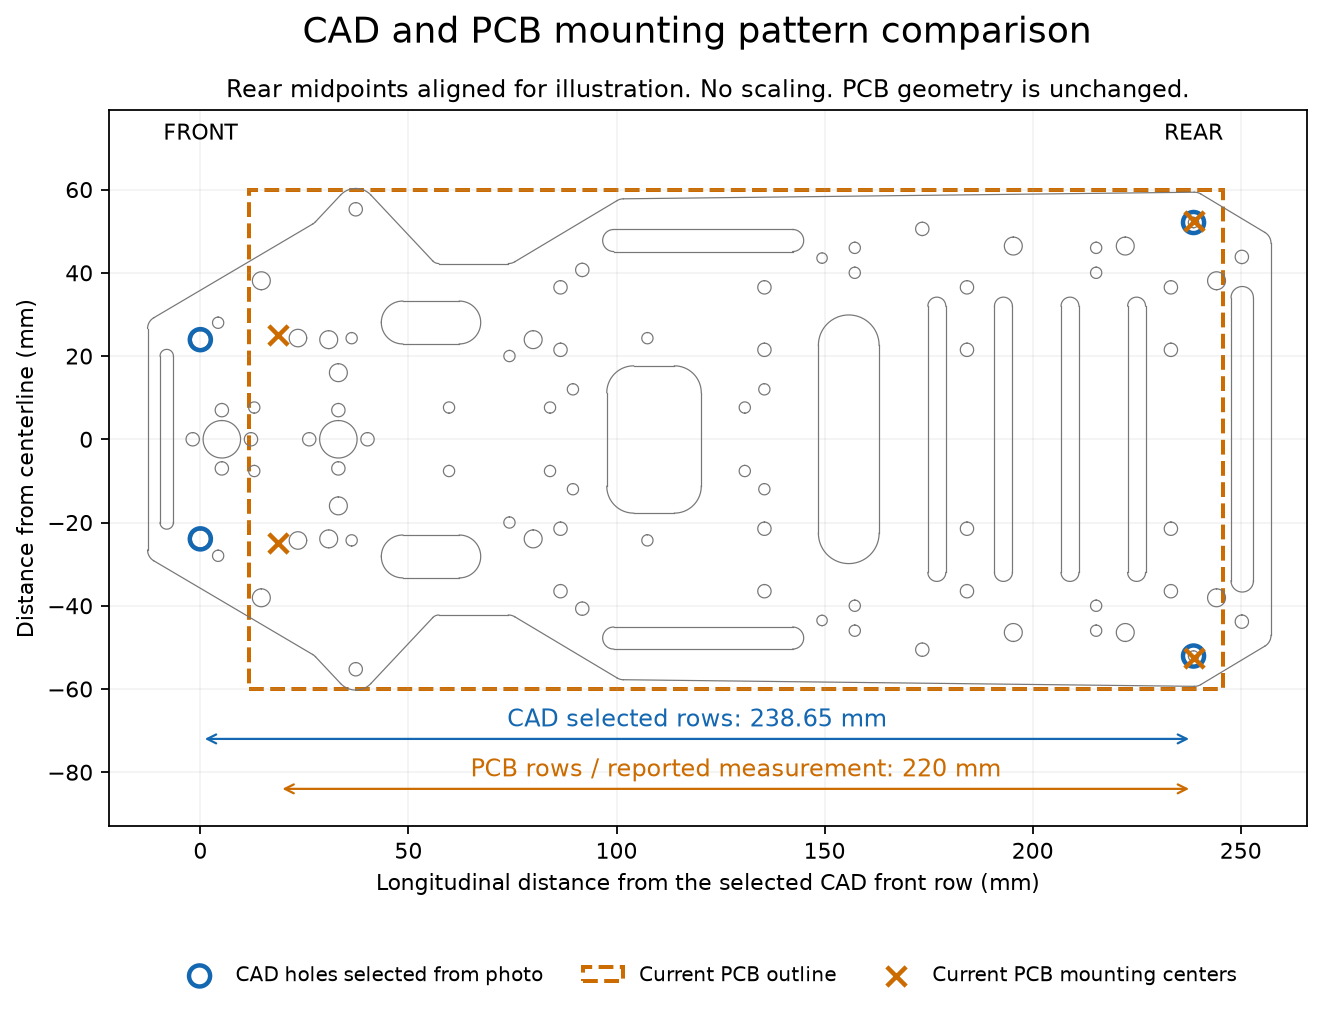
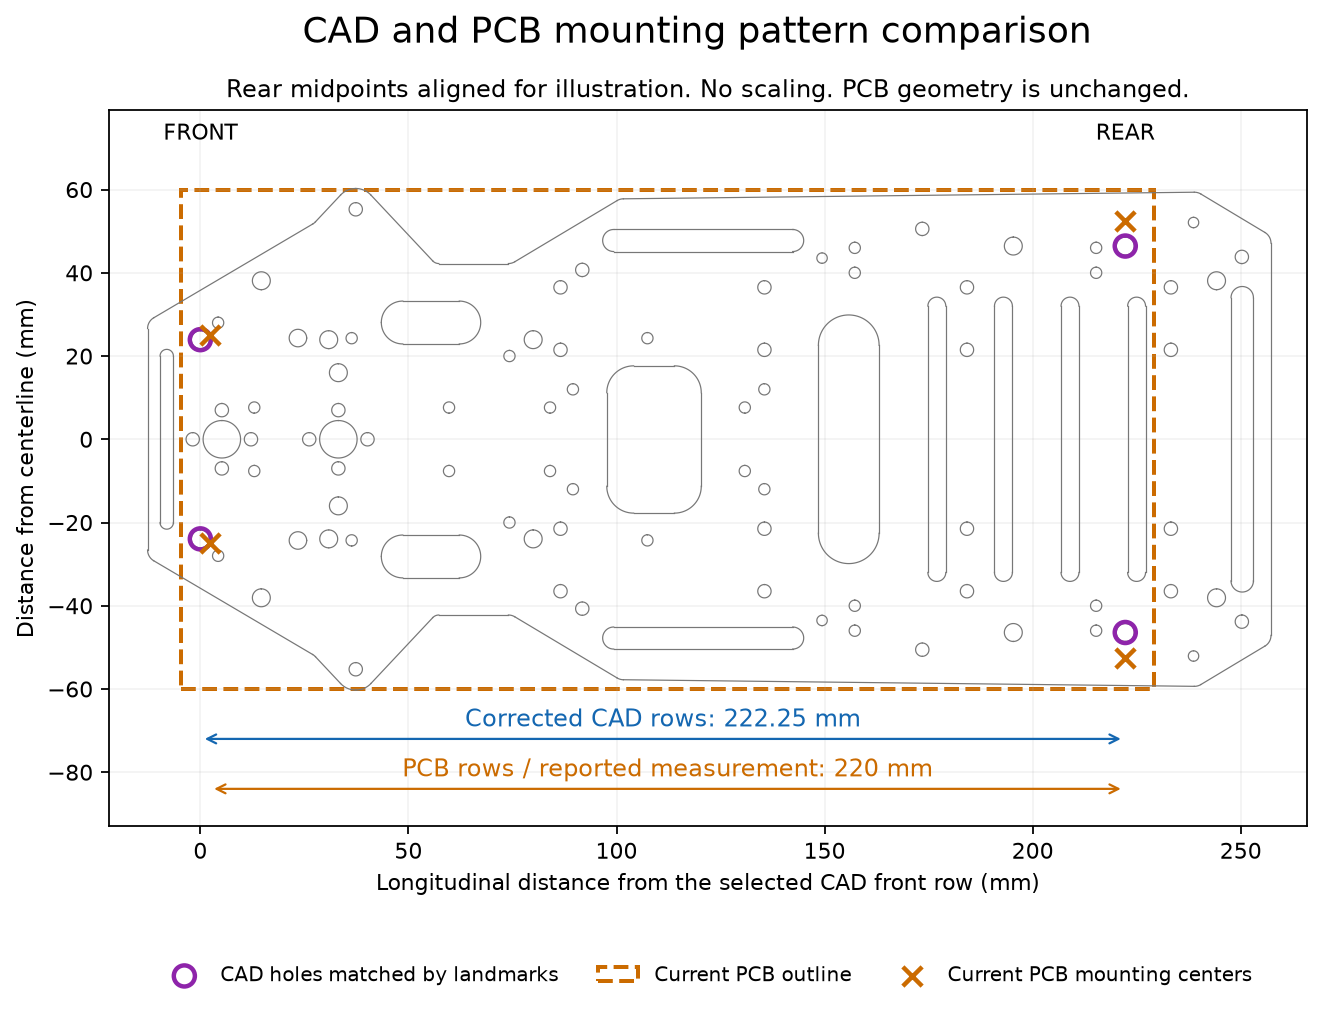
Correct chassis rear-hole correspondence and add labelled CAD details

diff --git a/lab4/Chassis-CAD-review.md b/lab4/Chassis-CAD-review.md
@@ -8,6 +8,12 @@ confirm the same pattern, so we cannot yet claim a matching CAD assembly.
 
 ## Source and correspondence
 
+**Correction after the purple-hole recheck:** the earlier rear selection was
+too far rearward. Its 238.650 mm row separation and 2.5 mm rear-hole diameter
+do not describe the purple-marked pair. We replaced those features with the
+larger pair beside the rearmost thin slot. The front selection is retained
+after checking the narrow end slot, large centre hole and nearby small holes.
+
 Canvas lists [Ackermann Chassis (Single Layer).3dm](https://canvas.cmu.edu/courses/56453/files/14985787)
 in the course Labs folder, created and last modified October 9, 2026. Its
 displayed 185.5 MB size agrees with the downloaded file's 185,526,936 bytes.
@@ -15,7 +21,8 @@ The file page provides no revision explanation. Despite its name, the model
 contains both chassis plates, spacers, wheels and steering parts. Its units
 are millimetres, with 0.001 mm model tolerance.
 
-We matched the narrow front pair and the wide rear pair by their locations
+We matched the front pair beside the narrow end slot and the rear pair beside
+the rearmost thin slot by their locations
 in the [marked team photo](measurements/chassis-mounting-2026-10-23.jpg).
 That correspondence is a visual interpretation, not confirmation that this
 CAD revision describes our actual car.
@@ -23,23 +30,28 @@ CAD revision describes our actual car.
 | Dimension | Team evidence / saved PCB | Visually corresponding CAD features |
 | --- | ---: | ---: |
 | Front pair, centre to centre | 50 mm | 47.870 mm |
-| Rear pair, centre to centre | 105 mm | 104.166 mm |
-| Front-to-rear row separation | 220 mm | 238.650 mm |
-| Chassis hole diameters | 4.5 mm, reported smooth holes | Front 4.3 mm; rear 2.5 mm |
+| Rear pair, centre to centre | 105 mm | 92.860 mm |
+| Front-to-rear row separation | 220 mm | 222.246 mm |
+| Chassis hole diameters | 4.5 mm, reported smooth holes | 4.3 mm at all four selected CAD holes |
 | Clear space between chassis plates | Approximately 51.75 mm reported | 50.000 mm |
 
-The 238.650 mm value is **a distance in the reference model**, not a new
-measurement of the team's chassis. The model's 2.5 mm rear holes would not
-accept our proposed M3 screw; this additional difference reinforces the need
-to reconcile the reference instead of automatically moving the PCB holes.
-We have not established whether the cause is a different chassis revision,
-incorrect feature correspondence, or a mismatch between the tested template
-and its recorded dimensions.
+The corrected longitudinal spacing is much closer to the recorded 220 mm,
+but the 12.140 mm difference in rear-pair width still prevents a matching
+four-hole CAD assembly. These values describe the model; they do not replace
+the team's physical measurements. We have not established whether the
+remaining difference comes from a different chassis revision, remaining
+feature correspondence ambiguity, or the tested template's recorded dimensions.
+
+![Labelled selected holes with front and rear details](Chassis-hole-correspondence.png)
+
+A/B identify the front pair; C/D identify the revised rear pair. Grey crosses
+mark the earlier, incorrect rear selection. This figure makes the visual
+correspondence reviewable without needing another set of physical measurements.
 
 ![CAD and current PCB support pattern](Chassis-CAD-comparison.png)
 
 The illustration aligns the rear-pair midpoints and applies no scale change.
-It is a reference comparison, not a fitted assembly. Blue circles identify
+It is a reference comparison, not a fitted assembly. Purple circles identify
 the selected CAD features; orange crosses show the current PCB hole centres.
 
 ## Checks and reproducibility
@@ -51,7 +63,7 @@ The selected hole centres in model coordinates are:
 | Pair | Left X / Y (mm) | Right X / Y (mm) | Boundary-edge indices |
 | --- | --- | --- | --- |
 | Front | −21.45269 / −125.71958 | 26.41721 / −125.71958 | 490; 493 |
-| Rear | −49.60074 / 112.93028 | 54.56527 / 112.93028 | 295 + 299; 301 + 305 |
+| Rear | −43.94773 / 96.52639 | 48.91225 / 96.52639 | 196; 199 |
 
 We extracted circular boundary arcs at the top surface using the model's
 0.001 mm tolerance, joining arcs with the same centre and radius. The check
@@ -83,15 +95,14 @@ The large course CAD file is not duplicated in this repository.
 
 ## Before release
 
-Resolve the model-to-car discrepancy before treating the course model as
-verification of the mounting pattern. The first step is a reference check
-with the TA, not another general measurement session:
+Review the labelled A/B/C/D correspondence before treating the course model
+as verification of the mounting pattern. If these are the intended matching
+features, the remaining focused reference question is:
 
-> Our 1:1 template fits all four chassis holes with 220 mm between the front
-> and rear rows. The matching-looking holes in the Canvas model are about
-> 238.65 mm apart, and their diameters also differ. Is the model for a different
-> chassis version, or are we identifying the wrong holes? Can we use the pattern
-> already checked on our actual car?
+> Our 1:1 template fits the car using 50/105 mm front/rear pair spacing and
+> 220 mm between rows. The labelled matching features in the Canvas model
+> give 47.87/92.86 mm and 222.25 mm. Does that model represent the same chassis
+> revision? Can we use the mounting pattern already checked on our actual car?
 
 Attach the comparison and the existing fit photo when asking. If the model
 is confirmed to represent a different car, retain the documented physical

diff --git a/lab4/Mechanical-evidence.md b/lab4/Mechanical-evidence.md
@@ -5,8 +5,10 @@ confirmations and the replies in the [original checklist](https://docs.google.co
 These observations support the design; they do not describe an assembled PCB.
 
 The October 28 [chassis CAD comparison](Chassis-CAD-review.md) found a reference
-conflict: visually corresponding holes in the course model give 238.650 mm
-between rows, rather than the recorded 220 mm. The successful four-hole paper
+conflict after correcting the rear-hole selection: the revised CAD features
+give 222.246 mm between rows and 92.860 mm rear-pair spacing, versus recorded
+220 mm and 105 mm. The earlier 238.650 mm result used the wrong rear pair.
+The successful four-hole paper
 fit below remains completed evidence, and the PCB geometry is unchanged.
 Resolve the model's correspondence/revision before claiming CAD confirmation
 of the actual chassis; no new general measurement session is requested.

diff --git a/lab4/Fabrication-review.md b/lab4/Fabrication-review.md
@@ -54,8 +54,11 @@ included, matching the [October 25 clarification](https://18449-f26.slack.com/ar
 
 ## Decisions needed before the layout is fixed
 
-The October 28 [chassis reference comparison](Chassis-CAD-review.md) found
-different row spacing and hole diameters in the downloaded course model.
+The October 28 [chassis reference comparison](Chassis-CAD-review.md) corrects
+the earlier rear-hole selection. The revised pair gives 222.246 mm between
+rows and 92.860 mm rear-pair spacing; the previously reported 238.650 mm used
+the wrong rear pair. Review the labelled feature correspondence and remaining
+width discrepancy against the physical evidence.
 The completed four-hole physical template fit remains valid evidence; the
 PCB outline and holes were not changed. Reconcile the model revision/feature
 correspondence before claiming a matching CAD assembly or releasing the
